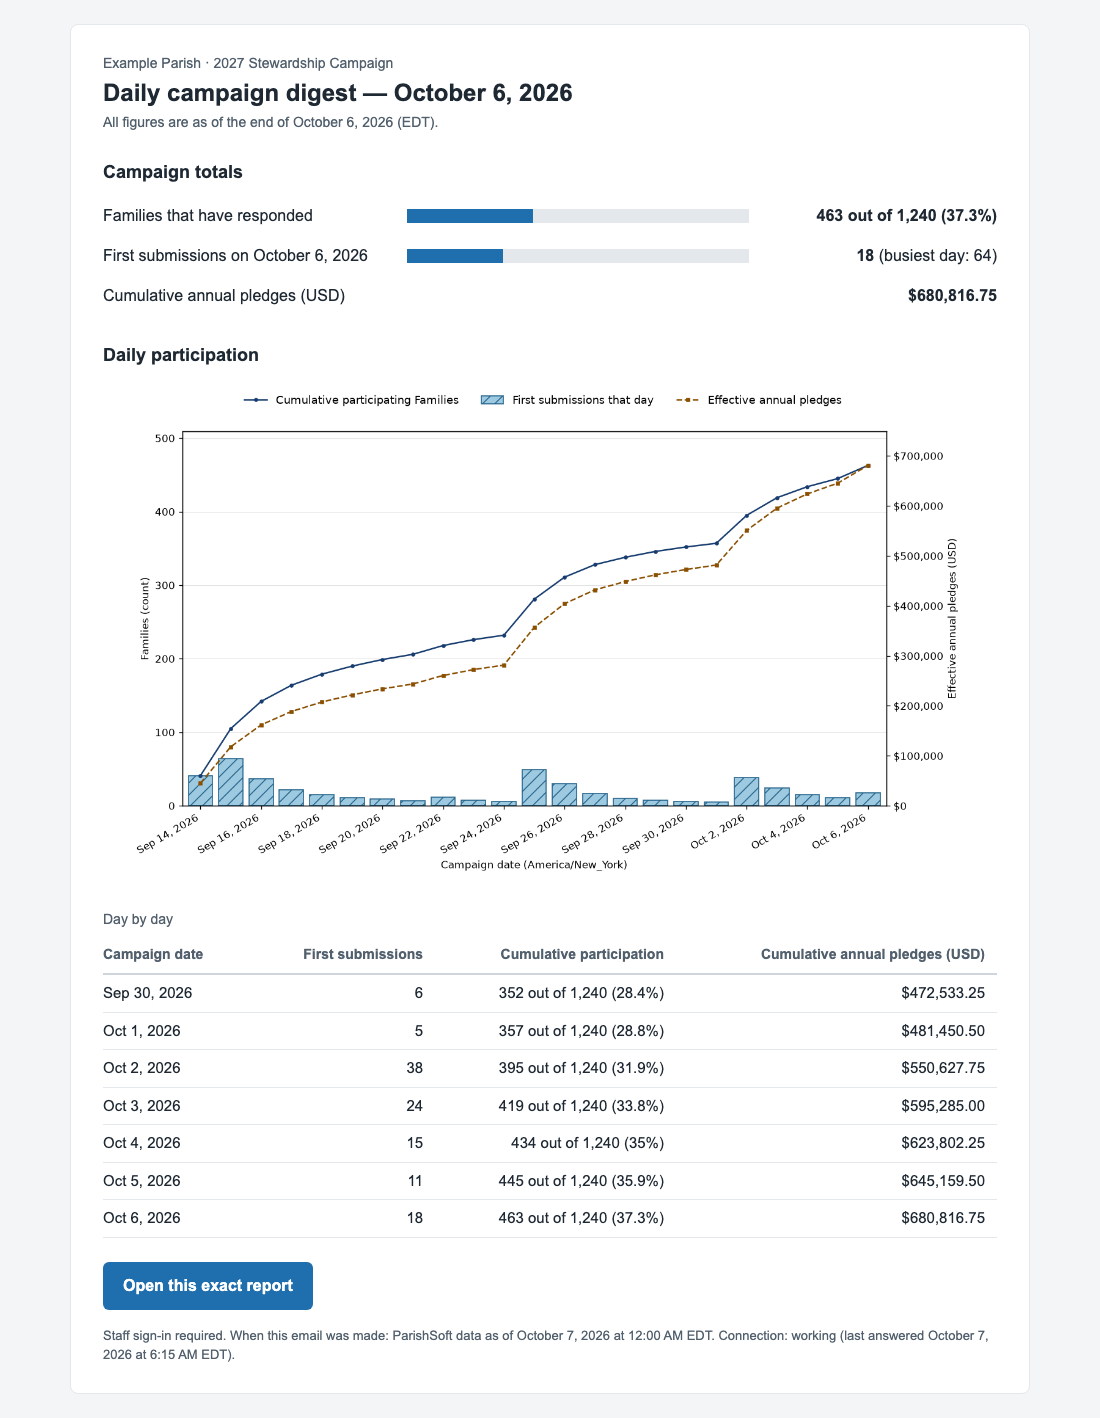
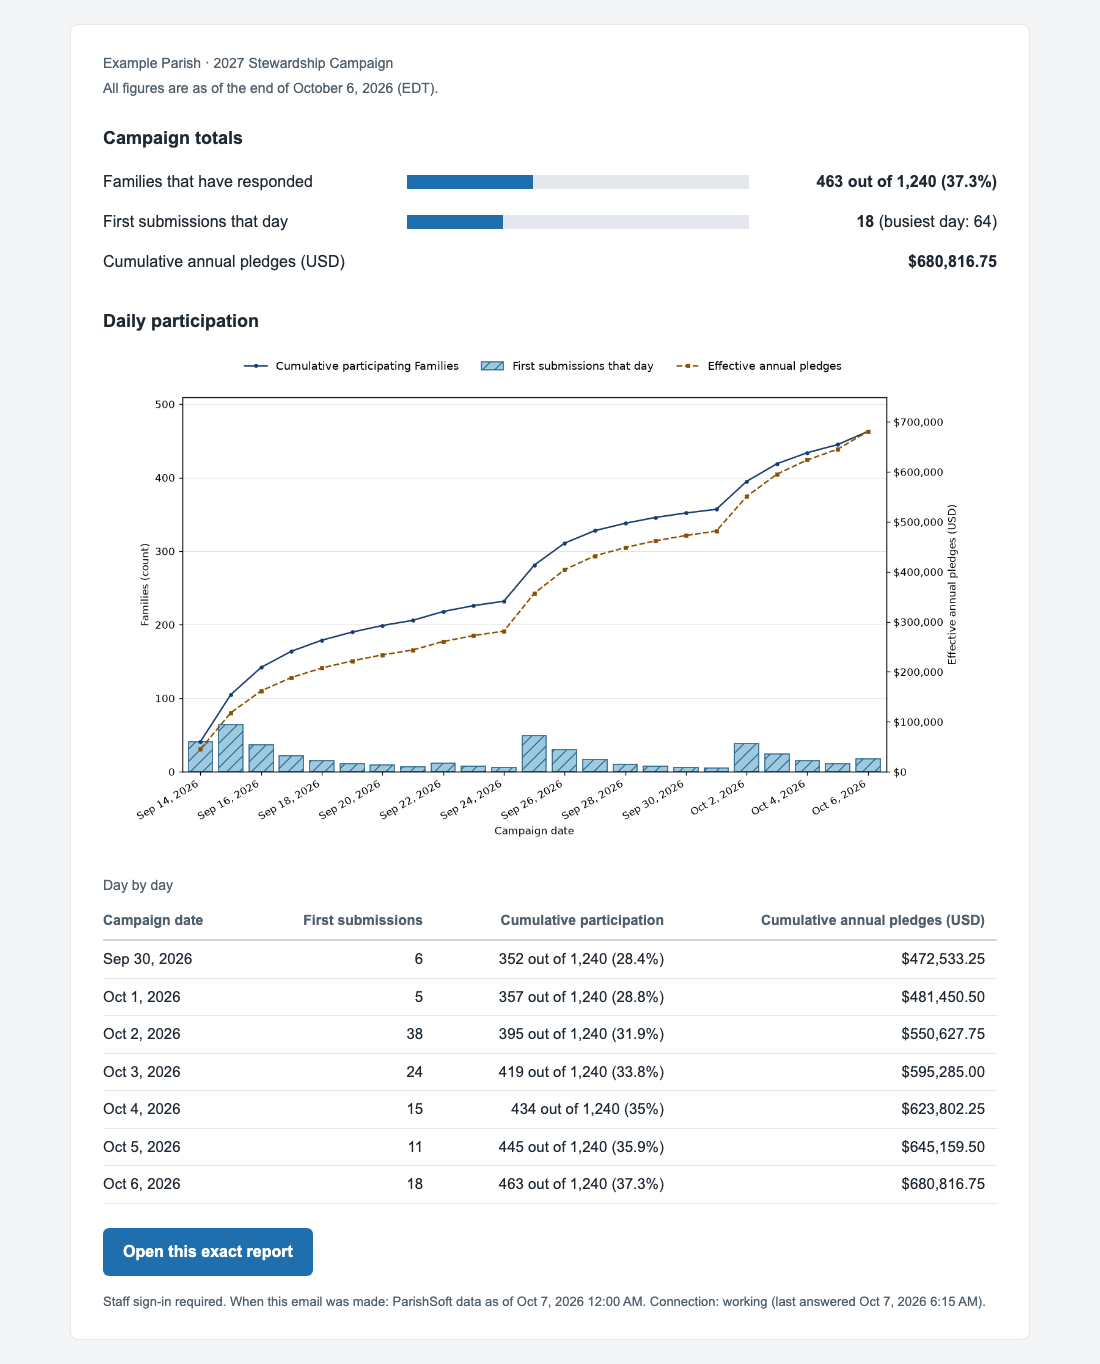
docs: describe the report emails as built after review
The independent review of #727 found that this proposal's "Report
email layout" had drifted from what the Administrator's review led to:
it still described tiles, a comparison-pledges marker, a funnel and
whole-number percentages. It now records the reasons for the built
layout (desktop width, each fact once, end-of-day figures only, the
funnel deferred) and links to the email specifications in
background-processing rather than keeping a second copy. The data spec
keeps no sentence of its own here, so #727's link is the only one.

The screenshots are refreshed from the latest #727 build, and the
weekly email is added.

diff --git a/docs/specs/stewardship/reports/spec.md b/docs/specs/stewardship/reports/spec.md
@@ -1008,8 +1008,10 @@ with [desktop](../../../plans/stewardship/visual-reports/daily-digest-desktop.pn
 [phone](../../../plans/stewardship/visual-reports/daily-digest-phone.png) and
 [images-off](../../../plans/stewardship/visual-reports/daily-digest-images-off.png)
 screenshots, rendered from fictional fixture data by
-`docs/plans/stewardship/visual-reports/build_prototype.py`, shows the email
-layout below.
+`docs/plans/stewardship/visual-reports/build_prototype.py`, shows the first
+proposal; the emails as built after the Administrator's review are in the
+[daily email screenshot](../../../plans/stewardship/visual-reports/daily-email/daily-digest-desktop.png)
+and described below.
 
 The readers are parish staff who are not technical and who read visually.
 Each report therefore leads with pictures (progress bars, bar charts and
@@ -1046,31 +1048,29 @@ design follows published practice:
 
 ### Report email layout
 
-Both Admin report emails (the [daily email report](#daily-email-report-parity)
-and the weekly and manual Additional-information digests, see
-[Additional information](#additional-information)) use a desktop-first
-layout instead of the
-[shared 600px email layout](../data/spec.md#content-and-email-templates)
-that Family email keeps:
+The built layouts are specified with the emails themselves: the
+[daily campaign digest](../background-processing/spec.md#daily-campaign-digest)
+and the
+[weekly additional-information digest](../background-processing/spec.md#weekly-additional-information-digest)
+(the Administrator's review of the first draft, #720/#727, set them). This
+section records why they look that way:
 
-- **Width.** One white card at most 960px wide on a light grey page, with
-  40px side padding, so the content is 880px wide. Typical desktop mail
-  panes are 900–1,200px wide. Outlook for Windows (the Word engine) ignores
+- **Width.** One white card at most 960px wide on a light grey page, with the
+  shared email layout's 32px side padding, instead of the
+  [600px column](../data/spec.md#content-and-email-templates) that Family
+  email keeps. Typical desktop mail panes are 900–1,200px wide, and these
+  reports are read at a desk, so nothing is laid out for phones; a narrower
+  window shrinks the card. Outlook for Windows (the Word engine) ignores
   `max-width`, so a conditional (`<!--[if mso]>`) table fixes its width at
   960px ([Litmus, Outlook rendering](https://www.litmus.com/blog/a-guide-to-rendering-differences-in-microsoft-outlook-clients)).
   Common advice for marketing mail is 600–640px
   ([Litmus, email myths](https://www.litmus.com/blog/7-myths-of-email-development));
-  the Administrator chose desktop instead, since these reports are read at a
-  desk.
-- **Phones.** The layout is fluid ("hybrid"): the card is `width:100%` up to
-  its maximum, headline tiles are inline blocks that wrap to one column when
-  the pane is narrow, and every bar is a percentage of its row. This works
-  without media queries, which Gmail supports only in part and Outlook for
-  Windows not at all
-  ([caniemail, `@media`](https://www.caniemail.com/features/css-at-media/)).
-  A small `<style>` block only tightens padding where it is honored. The
-  chart image scales down with the card: legible enough to see the shape, and
-  the exact numbers stay in the text beside it.
+  the Administrator chose desktop instead.
+- **Each fact once, content first.** The subject names the report, so the
+  body has no title; one line names the parish and campaign; one as-of or
+  capture line is the only place that names the time zone. The first screen
+  is content: the daily totals with their bars and the chart, or the weekly
+  numbered requests. Explanations are small print at the end.
 - **Construction.** Tables for layout, every style inline, no flexbox, grid,
   gradients, background images, SVG or `data:` images, none of which Gmail or
   Outlook for Windows renders reliably
@@ -1079,98 +1079,57 @@ that Family email keeps:
   [linear-gradient](https://www.caniemail.com/features/css-linear-gradient/),
   [inline SVG](https://www.caniemail.com/features/html-svg/),
   [base64 images](https://www.caniemail.com/features/image-base64/)).
-  The HTML stays far below Gmail's 102KB clipping limit
+  The daily HTML stays far below Gmail's 102KB clipping limit
   ([Litmus, Gmail clipping](https://www.litmus.com/blog/how-to-keep-gmail-from-clipping-your-emails)).
-  The digest's compiler-owned markup, not parish-authored content, carries
-  these styles, so the [content sanitizer](../data/spec.md#content-and-email-templates)
-  for Family templates is unchanged; the digest validator allows exactly the
-  compiled elements, attributes and images.
-- **Order.** Title and data-as-of line; three headline tiles; then sections,
-  each a heading, its visual, and its exact numbers; then the button that
-  opens the full report and the small-print provenance (data load and
-  submission cutoff, today in Technical details). The ParishSoft connection
-  is one plain line, shown as a notice only when it is not working.
+  The compiler-owned markup, not parish-authored content, carries these
+  styles, and the digest validators admit only their closed set, so the
+  [content sanitizer](../data/spec.md#content-and-email-templates) for Family
+  templates is unchanged.
+- **Numbers.** Every visual has its exact value printed beside it, since an
+  email cannot show tooltips, in the report's own formatting ("463 out of
+  1,240 (37.3%)", one decimal place; money to the cent).
+- **End-of-day figures only.** The daily figures all describe the end of the
+  report day, so live-only figures (comparison pledges, email reach, Active
+  Members) are not in the email, and nothing is drawn against them: pledges
+  have no bar or comparison marker. The Statistics report shows them.
+- **Deferred.** The [response funnel](#funnel-stages) as bars needs its
+  counts read as of the end of the report day and pinned with the digest; it
+  is a later slice.
 
-**Daily campaign report.** Questions it answers, in order:
-
-1. *How far along are we?* Tile: Families who have responded, as a large
-   number, a progress bar against active Families, and "of 1,240 active
-   Families (37%)".
-2. *Is it still moving?* Tile: new responses on the report's date, with two
-   small labelled bars comparing the last 7 days with the 7 days before.
-3. *How are pledges doing?* (financial module only) Tile: annual pledges so
-   far, as a bullet bar with a dark marker at the configured comparison
-   pledges, and "46% of last year's $1,420,000".
-4. *How many Families can we reach, and how many have answered?* Two
-   labelled bars, each against active Families: responded, and reachable by
-   email (deliverable email), with one sentence giving the number reached
-   only by post. These are the [campaign statistics](#campaign-statistics),
-   unchanged.
-5. *Where do Families stop?* The [response funnel](#funnel-stages) as
-   horizontal bars (Emailed, Opened their link, Started the form, Submitted),
-   each against Emailed. This is new to the email; see the open questions.
-6. *What happened day by day?* One chart image of up to three panels on one
-   date axis: new responses each day (columns, the latest one labelled, the
-   invitation and reminder sends as labelled dashed rules); Families who have
-   responded so far (line); and, with the financial module, annual pledges so
-   far (line, the comparison as a dashed rule). Below it, the exact values for
-   the last 7 campaign days (the latest in bold), with the covered dates of a
-   recovery digest always included.
-
-Every visual has its numbers printed beside or under it, since an email
-cannot show tooltips. Percentages are whole numbers next to the exact counts;
-money in tiles is whole dollars and the table keeps cents. Dates use the
-parish date format and the campaign's time zone, as today.
-
-**Weekly and manual Additional-information digests.** Their job is a to-do
-list, so the list stays the main content, laid out wider: each request is a
-row with the Family and submission time on the left and the excerpt on the
-right. Above it, headline tiles give the count of new (or, for the manual
-digest, current) actionable requests and of corrections, each a large
-number. No chart is added: one week's counts do not need one.
-
-**Privacy.** The emails carry only what they carry today: aggregates for the
-daily report, and the weekly digests' existing Family names, DUIDs and
-excerpts. The funnel adds aggregate counts only. Images are rendered from the
-same aggregates and carry no Family data.
+**Privacy.** The emails carry only what they carried before: aggregates for
+the daily report, and the weekly digests' existing Family names, DUIDs and
+excerpts. The chart is drawn from the same aggregates and carries no Family
+data.
 
 ### Charts in email
 
 The daily report uses **both** email-safe methods, each where it is
 strongest:
 
-- **Table-based HTML bars** for every progress bar, bullet bar, comparison
-  and funnel bar: a row of table cells whose `bgcolor` and percentage widths
-  draw the bar, with the numbers as text beside it. They render in every mail
-  program including Outlook for Windows, survive image blocking (Outlook
-  desktop blocks images by default:
+- **Table-based HTML bars** for each campaign total: a row of table cells
+  whose `bgcolor` and percentage widths draw the bar, with the number as text
+  beside it. They render in every mail program including Outlook for
+  Windows, survive image blocking (Outlook desktop blocks images by default:
   [Litmus, image blocking](https://www.litmus.com/blog/the-ultimate-guide-to-email-image-blocking)),
-  and cost no attachment. A non-zero share narrower than 1% still draws a
-  1% sliver, so it never looks like zero.
-- **One server-rendered PNG, attached inline by `cid:`**, for the
-  day-by-day panels, which HTML cannot draw well. The daily digest already
-  sends its chart this way, and `cid:` is the path Outlook desktop supports
-  (`data:` images are dropped by Gmail). The PNG is a Vega-Lite specification
-  from `reports/chart_specs.py`, rendered by the [chart engine](#chart-engine)
-  at twice its 880px CSS width, so the email and the portal draw the same
-  JSON. It replaces the Matplotlib drawing in the email; the Participation
-  page moves to the same specification in its own slice. Hosted images are
-  rejected: they would need a public, unauthenticated image URL for staff
-  reports.
+  and cost no attachment. A non-zero share narrower than 1% still draws a 1%
+  sliver, and an incomplete one is never drawn full.
+- **One server-rendered PNG, attached inline by `cid:`**, for the day-by-day
+  chart, which HTML cannot draw well; `cid:` is the path Outlook desktop
+  supports (`data:` images are dropped by Gmail). Today it is the
+  [participation graph](#participation-graph)'s drawing without its page
+  title, names and footer, shown 880px wide. Moving it to a Vega-Lite
+  specification rendered by the [chart engine](#chart-engine), with one
+  measure per axis, comes with the Participation page's slice, since the
+  first server render registers the render helper's timeout name through a
+  frozen schema migration. Hosted images are rejected: they would need a
+  public, unauthenticated image URL for staff reports.
 
 **Alt text** on the chart carries the key numbers, not a description of the
 picture ([W3C WAI, complex images](https://www.w3.org/WAI/tutorials/images/complex/);
 [Datawrapper, alt text](https://www.datawrapper.de/academy/how-to-write-good-alternative-descriptions-for-your-data-visualization)):
-the chart's kind and date range, the latest day's new responses, the
-responded count out of active Families, the busiest day and its count, and
-pledges so far when shown. It is built from the same values as the table,
-styled (font, size, colour) so it reads as text when images are off, and
-followed by the exact-values table. HTML bars need no alt text: their
+the chart's kind and date range and every campaign total, from the same
+values as the table, which follows it. HTML bars need no alt text: their
 numbers are text.
-
-The first slice that renders a chart on the server registers the render
-helper's timeout name, as the [chart engine](#chart-engine) requires, through
-a frozen schema migration.
 
 ### Chart palette and style
 

diff --git a/docs/specs/stewardship/data/spec.md b/docs/specs/stewardship/data/spec.md
@@ -951,9 +951,7 @@ live format and links on the reserved `.invalid` domain). Every outgoing
 email's HTML alternative is wrapped, when the message is built, in one shared
 email-client-safe layout (a readable sans-serif font and a centered 600px
 column); test messages show one small notice line instead of a large TEST
-heading. The Admin report emails are proposed to use a wider desktop layout
-instead ([visual report design](../reports/spec.md#report-email-layout)).
-Retained content and the plain-text alternative are unchanged.
+heading. Retained content and the plain-text alternative are unchanged.
 Content text rules (the sanitizer's canonical form and the placeholder
 contracts) apply to content being authored or changed. Revisions already in
 an applied configuration version were validated under the rules in force when
